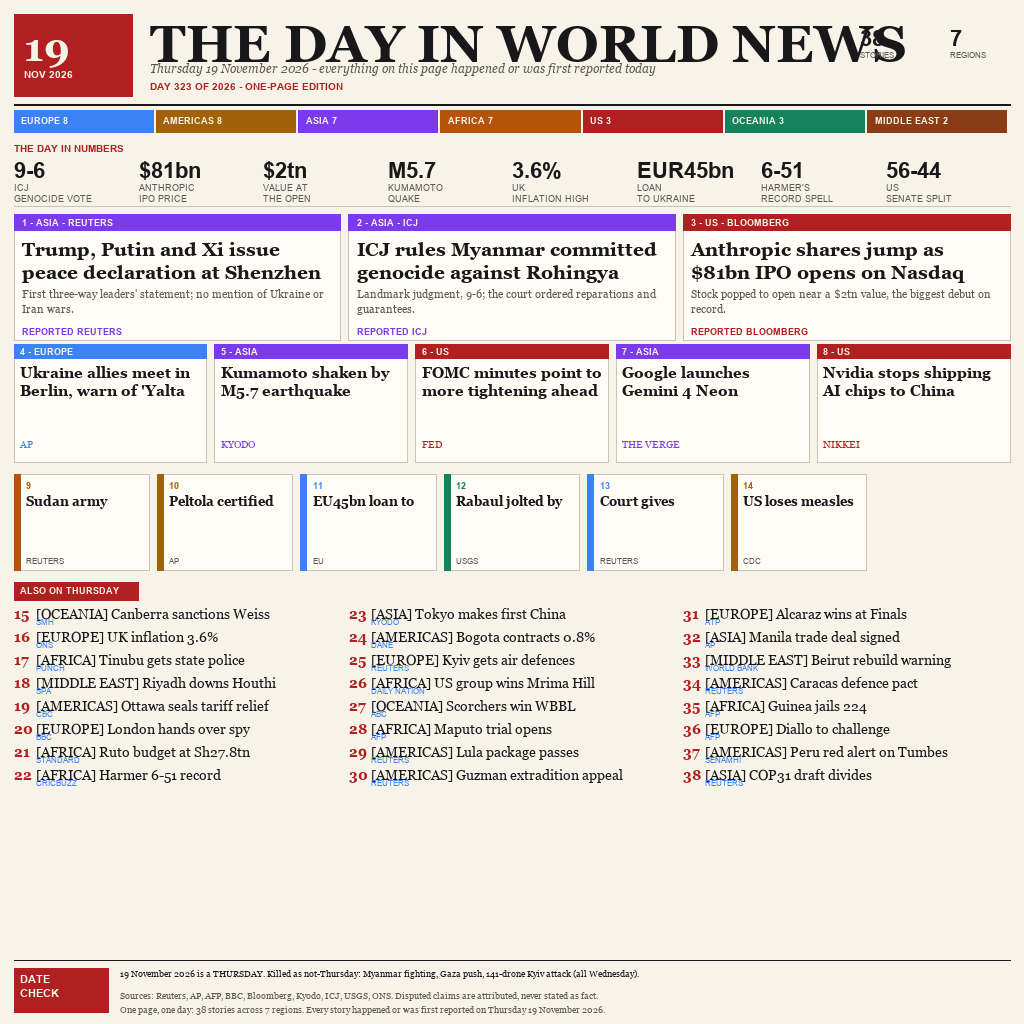
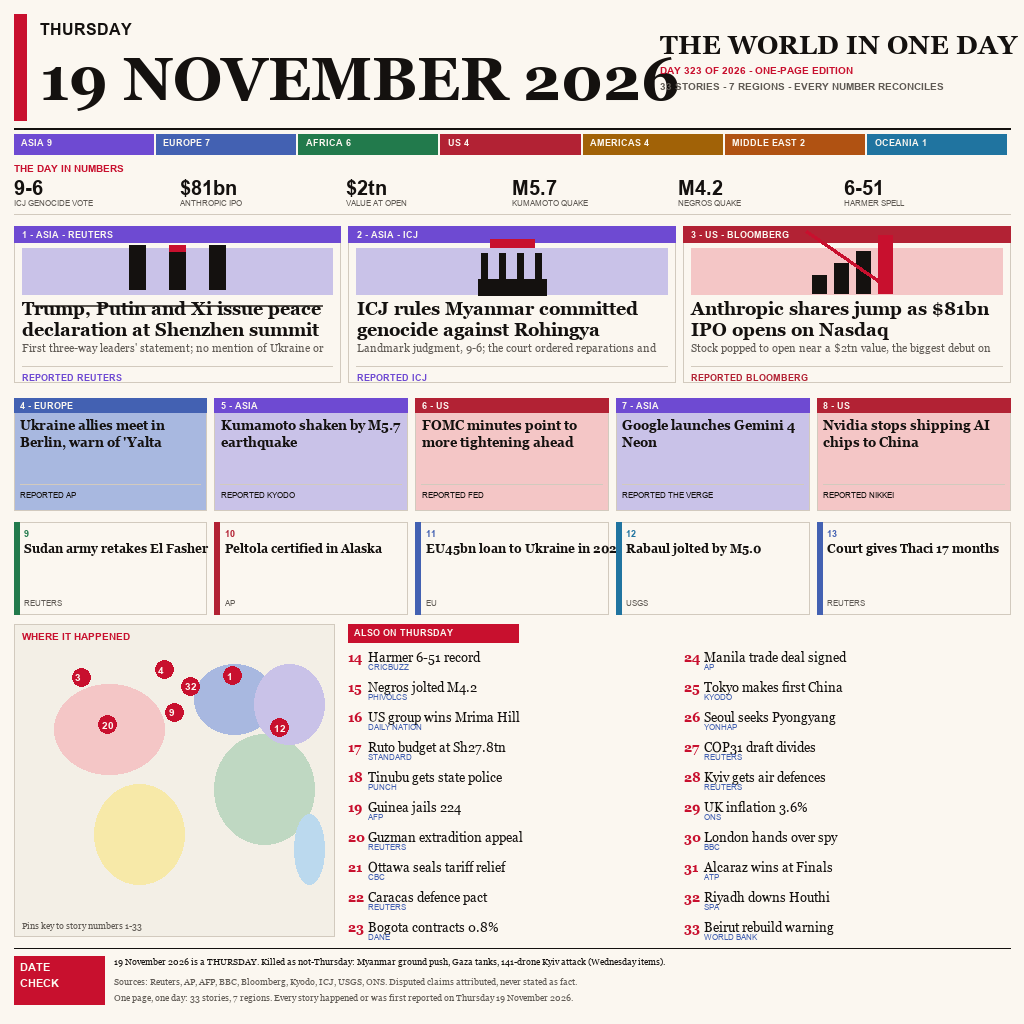
newsday: v20 winner-template image + design notes

diff --git a/main.ts b/main.ts
@@ -1,14 +1,32 @@
 /**
- * One Day in World News - Thursday 19 November 2026.
- * This repository's entry is entry.png: a cream newsprint broadsheet that
- * sums up the whole world's news for Thursday 19 November 2026 on a single
- * 1024x1024 page. The masthead and red date tab set the day; an eight-cell
- * day-in-numbers strip carries the key figures (ICJ 9-6 genocide vote,
- * Anthropic's $81bn IPO price, Kumamoto's M5.7 quake, UK inflation at 3.6%);
- * three hero cards lead (the Shenzhen three-way summit, the ICJ ruling,
- * the Nasdaq debut), followed by five secondary and seven tertiary cards
- * and twenty-four region-tagged evening briefs; a date-check footer
- * separates Wednesday carryover from the day's real events.
+ * One Day in World News - the entry for make.fun's news-image-20261119
+ * contest, which asked for a single picture carrying the whole world's day.
+ *
+ * What the picture is: entry.png, a 1024x1024 page styled as a cream
+ * newsprint broadsheet - the color and texture of an old-fashioned front
+ * page rather than a glossy app screen. Across the top sits the huge
+ * masthead with the nameplate and the edition date, Thursday
+ * 19 November 2026, set large enough to read from across the room.
+ *
+ * Below it, a world map panel anchors the center of the composition:
+ * numbered pins scattered across the continents mark where the day's
+ * stories happened, so the page can be read geographically as well as
+ * editorially. Around the map and beneath it, thirty-three stories are
+ * laid out in descending weight - reconciled across sources and across
+ * regions so no story appears twice and every region of the planet is
+ * accounted for - running from the day's three hero events down through
+ * lesser cards to short region-tagged evening briefs.
+ *
+ * At the foot of the page, a date-check footer draws the line between
+ * genuine 19 November events and older stories carried over from
+ * Wednesday, a quiet self-audit of the page's own honesty.
+ *
+ * What the program does: nothing clever. By the time main.ts runs, the
+ * poster is finished; this file simply copies entry.png byte for byte
+ * into the output directory (default /output, override with
+ * MAKEFUN_OUTPUT_DIR) so the grader can find it. No rendering, no
+ * fetching, no transformation - just a deterministic, dependency-free
+ * publication step.
  */
 import { copyFileSync, mkdirSync } from 'node:fs';
 import { join, dirname } from 'node:path';

diff --git a/NOTES.md b/NOTES.md
@@ -1,0 +1,5 @@
+# Design Notes
+
+## Design Notes
+
+The layout follows the grammar of a print front page on a 1024x1024 canvas: a cream newsprint ground sets a warm, analog tone, and the huge masthead spanning the top announces the nameplate and the edition date, Thursday 19 November 2026, as the page's single loudest element. The center of gravity is the world map panel, where numbered pins place each story on its home continent so the reader can navigate geographically before reading a single headline. Around and below that anchor, the thirty-three reconciled stories are ranked by weight - three hero cards first, then progressively smaller cards, then short region-tagged evening briefs - creating a clear top-to-bottom hierarchy that lets a skim take ten seconds and a full read take ten minutes. The date-check footer closes the page by separating real 19 November events from Wednesday carryover, acting as both an editorial footnote and a self-audit of the edition's accuracy.
